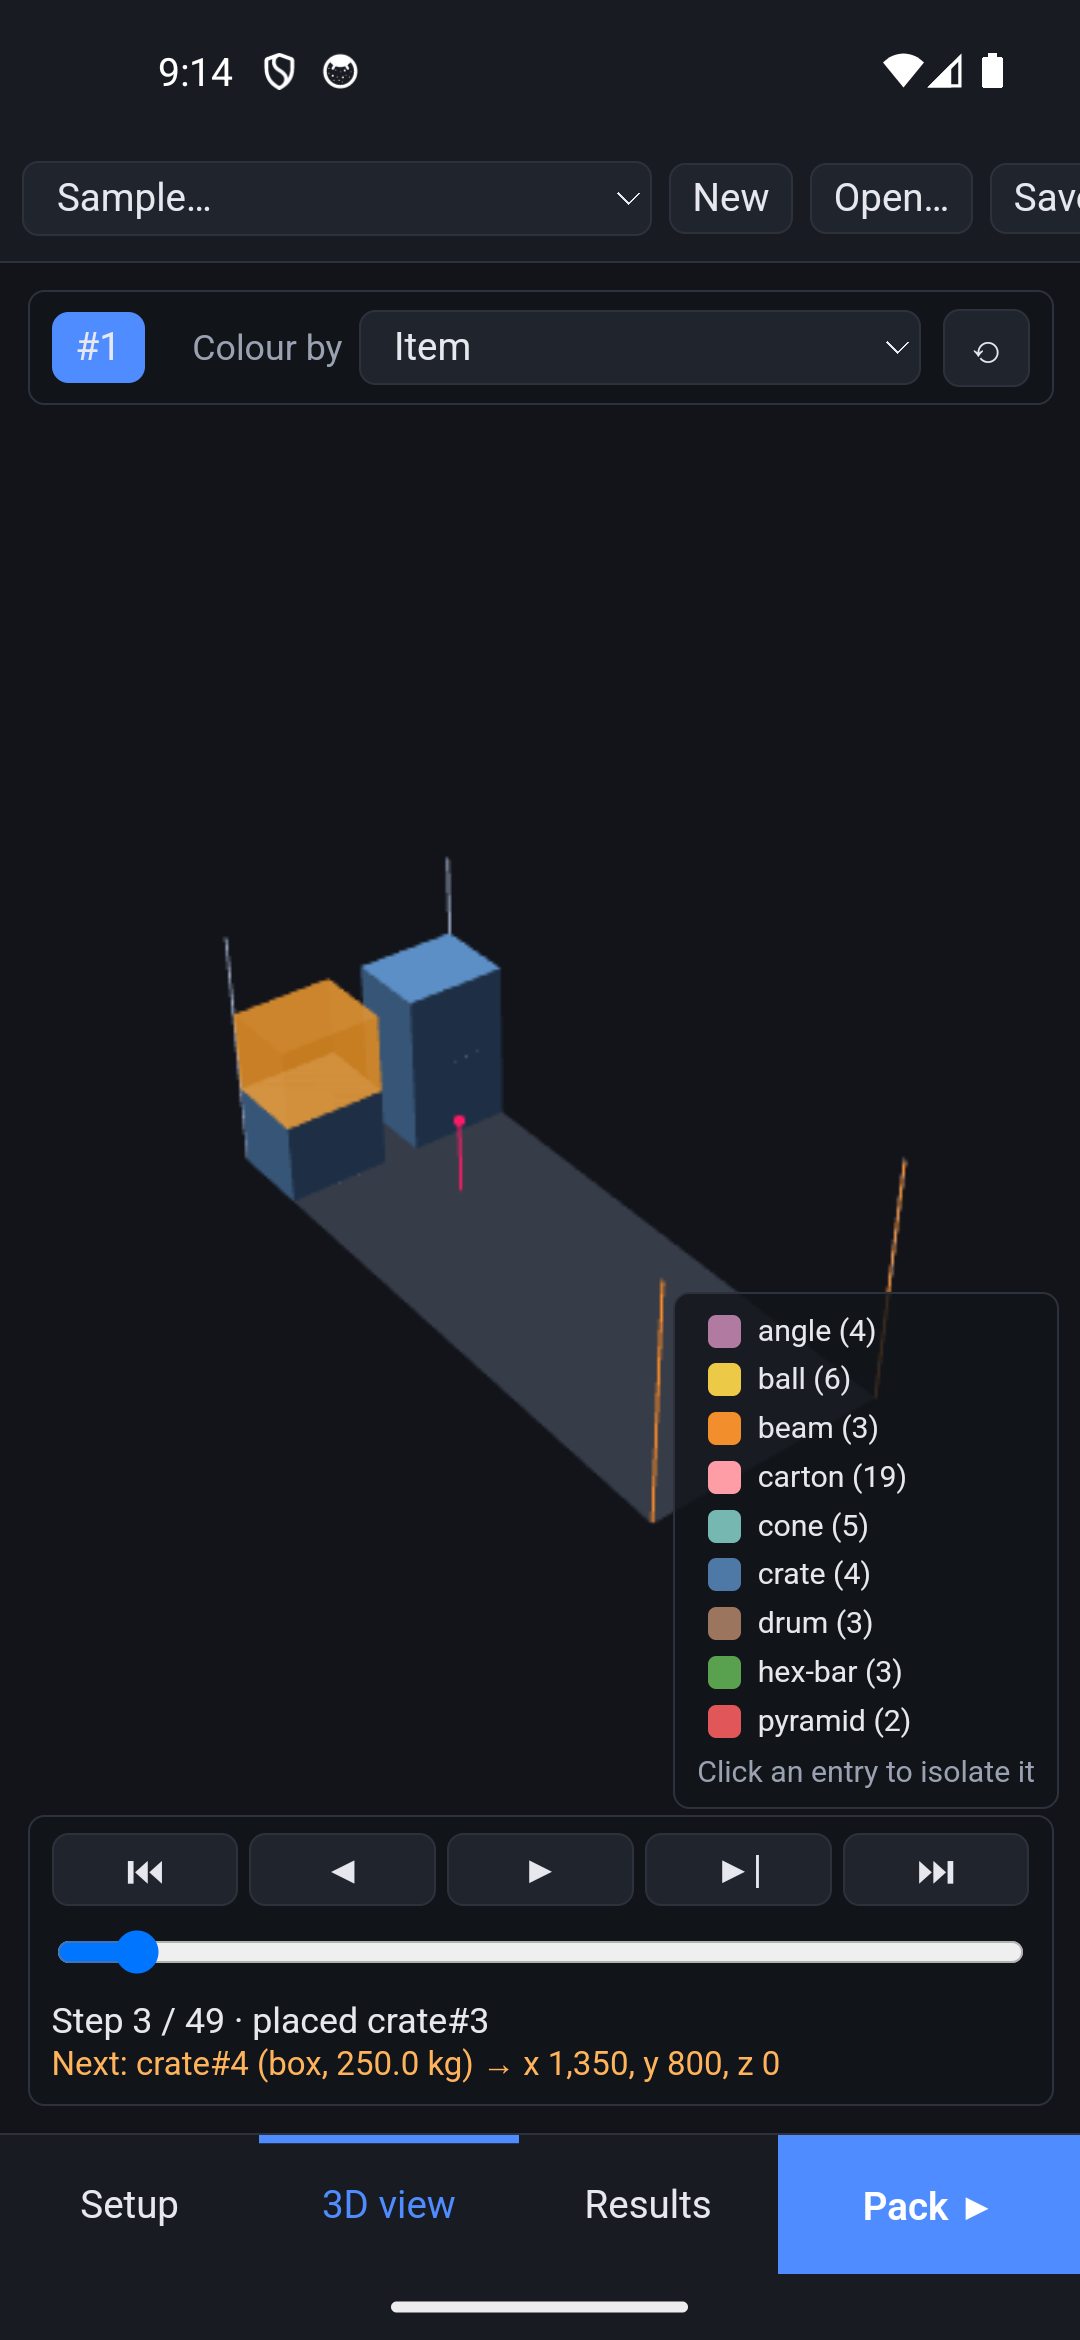
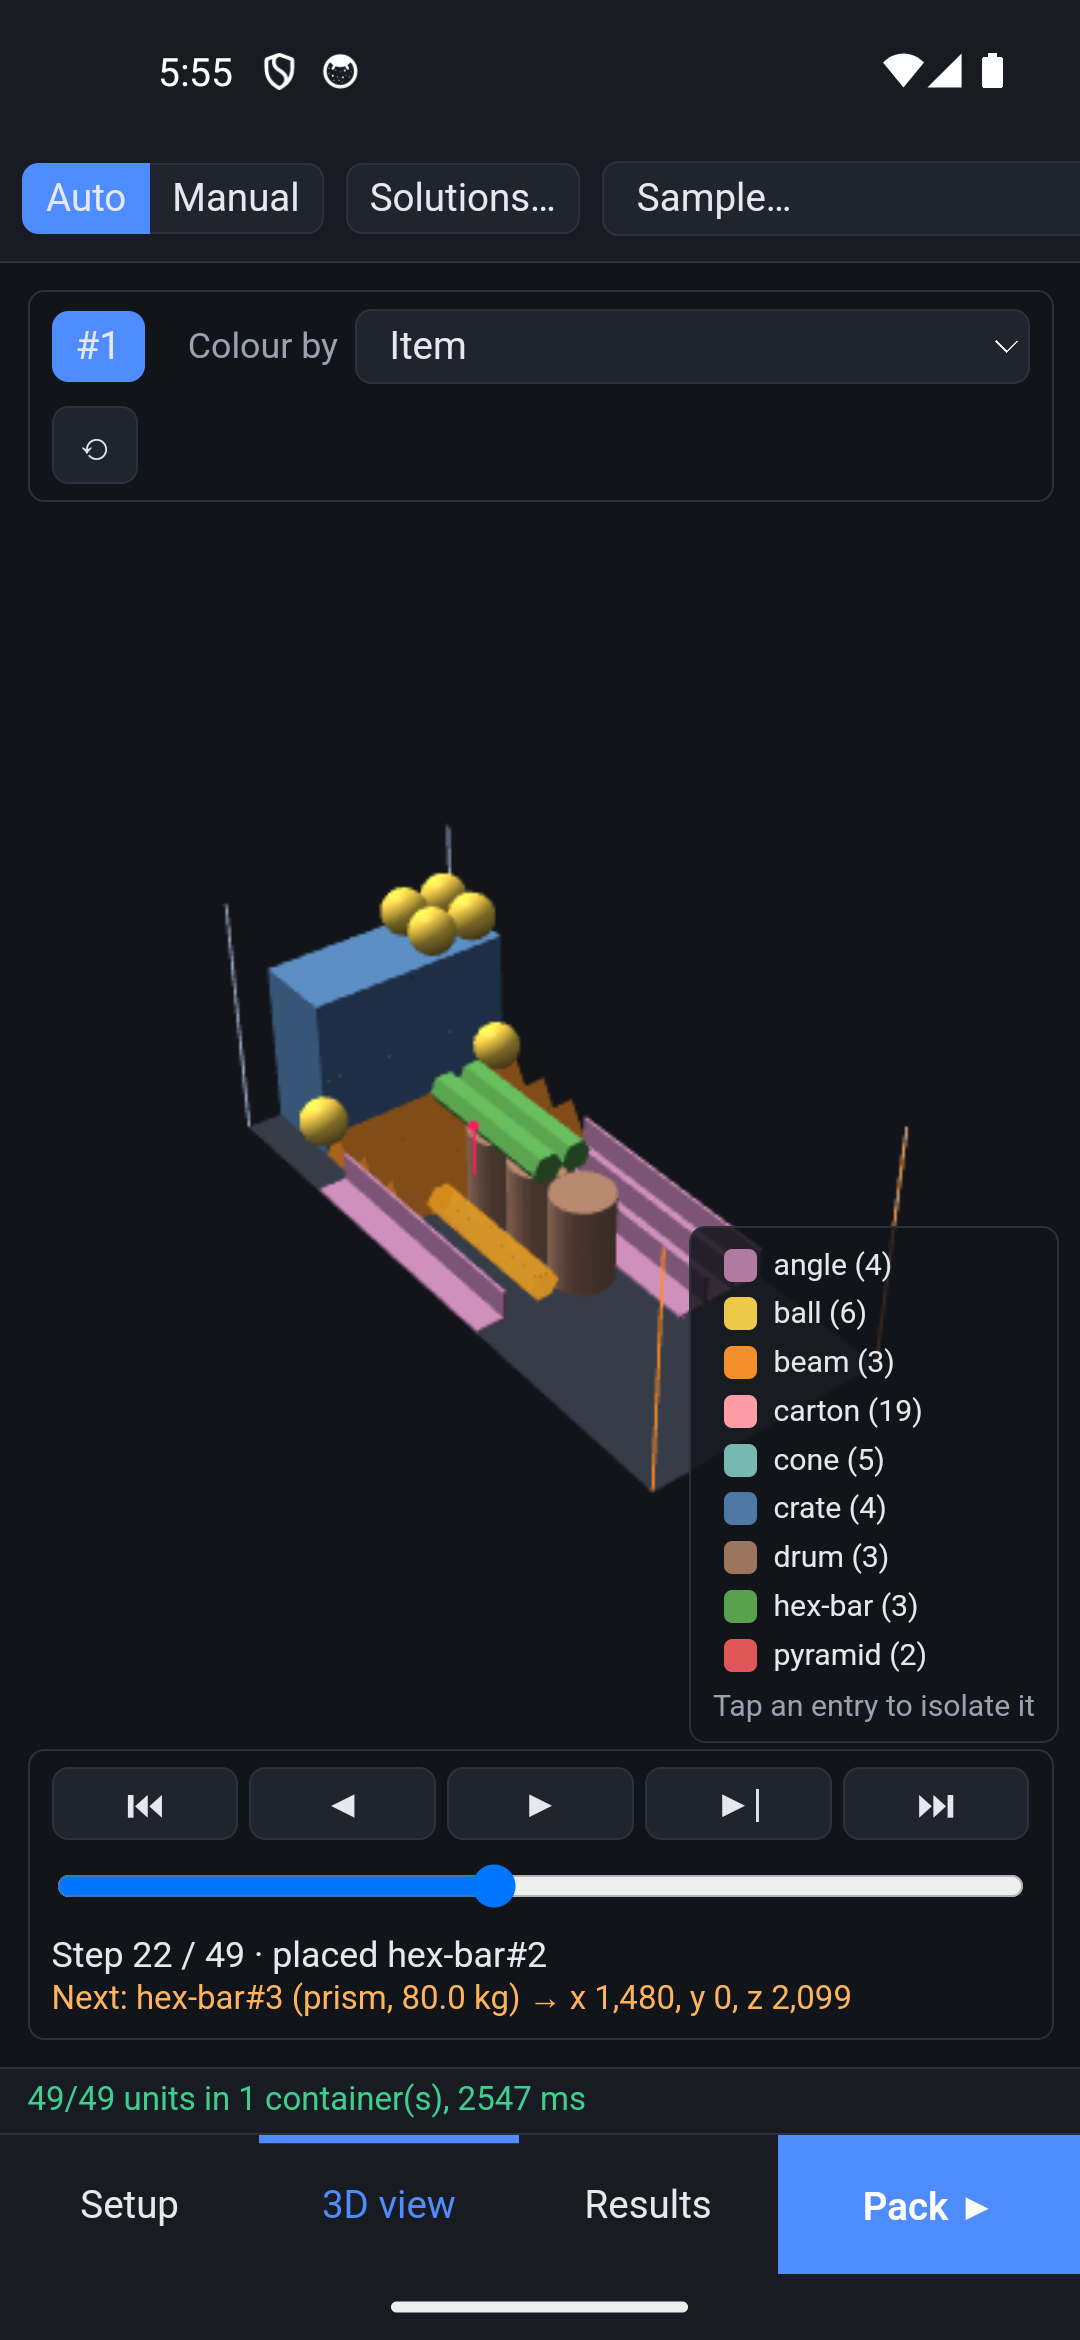
docs: building the API server, release steps, API and phone screenshots
- building.md: the API server (tests, Windows build, Linux binary built
  in Docker and copied out of the image), the release checklist, and
  testing tips (trusted mouse/touch input for the 3D view, the Local API,
  WebView debugging on emulators).
- conventions.md: how the API's full JSON and ERP format relate to the
  plan JSON (axes, box sides, unit conversion).
- README and user guide: screenshot of the API dialog; the Android
  screenshot shows the 0.7 toolbar; the phone section shows manual mode.

diff --git a/docs/building.md b/docs/building.md
@@ -7,6 +7,7 @@
 | Engine and CLI | Rust 1.82+ (`rustup`) |
 | Desktop app | Node.js 20+ and npm, WebView2 runtime (preinstalled on Windows 11) |
 | Android APK | Android SDK with platform 34+, NDK 26+, JDK 17, and the Rust targets `aarch64-linux-android` and `x86_64-linux-android` (add `armv7-linux-androideabi` and `i686-linux-android` for older devices) |
+| Linux API server from Windows | Docker (Docker Desktop with WSL 2) |
 
 ## Engine, tests and CLI
 
@@ -73,6 +74,31 @@ The release build is signed through `app/src-tauri/gen/android/app/build.gradle.
   and testing, but users cannot later update to a build signed with a different key
   without uninstalling first.
 
+## API server
+
+The API lives in `crates/omnipack-api`; `crates/omnipack-server` is the standalone
+program around it. The Windows app links the same crate for its Local API.
+
+```
+cargo test -p omnipack-api                  # endpoints, ERP format, jobs + callbacks, drop folders
+cargo build --release -p omnipack-server    # target/release/omnipack-server(.exe)
+```
+
+The Linux binary is built in Docker with the `Dockerfile` in the repository root
+(Rust on Debian 12, so the binary needs glibc 2.35 or newer), then copied out of the
+image:
+
+```
+docker build --load -t omnipack-server:<version> .
+docker create --name omnipack-export omnipack-server:<version>
+docker cp omnipack-export:/usr/local/bin/omnipack-server release/omnipack-server_<version>_linux-x64
+docker rm omnipack-export
+```
+
+`--load` puts the image in the local image store. A buildx `docker-container` builder
+needs it, and the default builder accepts it. The same image runs the server directly;
+see [api.md](api.md#running-it).
+
 ## Testing the built apps
 
 Both apps can be driven from scripts through the Chrome DevTools Protocol:
@@ -80,6 +106,37 @@ Both apps can be driven from scripts through the Chrome DevTools Protocol:
 - **Windows:** start the exe with
   `WEBVIEW2_ADDITIONAL_BROWSER_ARGUMENTS=--remote-debugging-port=9222` and connect to
   `http://127.0.0.1:9222/json`.
-- **Android:** use a debug APK, find the `webview_devtools_remote_<pid>` socket with
+- **Android:** use a debug APK (or any build on an emulator, whose system images are
+  debuggable), find the `webview_devtools_remote_<pid>` socket with
   `adb shell cat /proc/net/unix`, then run
   `adb forward tcp:9223 localabstract:webview_devtools_remote_<pid>`.
+- **Mouse and touch in the 3D view:** send trusted input (`Input.dispatchMouseEvent`
+  over CDP on Windows, `adb shell input tap` / `swipe` on Android). Synthetic
+  `PointerEvent`s do not get Babylon.js pointer capture, so a scripted drag turns the
+  camera instead of moving the unit.
+- **Local API:** enable it in **API…**, then
+  `curl http://127.0.0.1:8765/api/v1/health`. The `omnipack-api` tests cover the rest
+  without a running app.
+
+## Releasing
+
+1. Set the version in `Cargo.toml` (`[workspace.package]`), `app/package.json` and
+   `app/src-tauri/tauri.conf.json`, and add the section to `CHANGELOG.md`.
+2. Build everything, one build at a time (they share the `target` folder):
+   `npx tauri build`, the APK, `cargo build --release -p omnipack-server`, and the Linux
+   server in Docker. The APK build packs the web UI when it starts, so finish UI
+   changes first.
+3. Copy the files into `release/`:
+   - `OmniPack_<version>_x64_en-US.msi`
+   - `OmniPack_<version>_x64-setup.exe`
+   - `OmniPack_<version>_android-universal.apk` (from `app-universal-release.apk`)
+   - `omnipack-server_<version>_windows-x64.exe`
+   - `omnipack-server_<version>_linux-x64`
+4. In `release/`, run `sha256sum -b <the five files> > SHA256SUMS.txt`.
+5. Commit `chore: release <version>`, tag it with `git tag -a v<version>`, then push with
+   `git push origin main --follow-tags`.
+6. Run `gh release create v<version> --notes-file <notes> <the five files> SHA256SUMS.txt`.
+   The notes are the CHANGELOG section plus a download list.
+
+The binaries are not committed (`.gitignore`); only `release/README.md` and
+`SHA256SUMS.txt` are.

diff --git a/docs/user-guide.md b/docs/user-guide.md
@@ -22,6 +22,8 @@ The phone app has the same engine and features, with these differences:
   the exact X / Y / Z fields are under **Results**.
 - There is no panel resizing and no local API (that is a desktop feature).
 
+<img src="images/android-manual.png" alt="Manual mode on a phone: three pallets placed by tapping, the placement bar over the 3D view, and the units still to place" width="300">
+
 ### The setup panel
 
 The setup panel on the left has four tabs: **Container**, **Cargo**, **Strategy** and
@@ -350,6 +352,9 @@ Below the list:
 On Windows, **API…** in the toolbar lets other programs use OmniPack while it runs. An
 ERP system such as SAP, a warehouse system or a script sends a container and its cargo
 and gets every placement back, as JSON or a CSV load list.
+
+![The API dialog: the Local API running on port 8765 with a generated key](images/desktop-api.png)
+
 - **Enable the API** and **Apply** start it on `http://127.0.0.1:8765` (change the
   **Port** if needed).
 - **API key:** programs must send it as `X-API-Key`. **New** makes a random one;

diff --git a/docs/conventions.md b/docs/conventions.md
@@ -107,3 +107,8 @@ Request: `PackRequest { container, items, options }` (see
 `crates/omnipack-core/src/model.rs`). Response: `PackResult` with schema tag
 `omnipack.plan/1` (see `plan.rs`). Generate an example with
 `omnipack gen mixed 1`.
+
+The API's `/pack` and `/optimize` take this JSON unchanged. Its simple ERP format
+(`/erp/plan`) uses the same axes but names the box sides `length` (along z), `width`
+(x) and `height` (y), and converts the units given in the request (mm, cm, m, in, ft;
+kg, g, t, lb, or the SAP codes). See [api.md](api.md).

diff --git a/README.md b/README.md
@@ -33,6 +33,8 @@ A second, independent validator re-checks every plan before it is shown.
 
 ![Manual mode: units placed by hand in a 40 ft high cube, one flagged as unstable, and the green ghost of the next drum](docs/images/desktop-manual.png)
 
+![Local API in the Windows app: other programs, such as SAP, send the cargo and get every placement back](docs/images/desktop-api.png)
+
 ## Download
 
 Get the latest build from the [Releases](../../releases) page:
